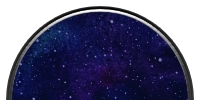
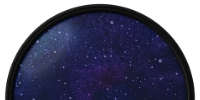
Improve sky crossfade timing and update sky textures
Rework computeSkyOpacities to use 25/50/25 fade model: daylight
and nighttime each split into 25% crossfade, 50% hold, 25% crossfade.
Center sun at noon by adjusting summer sunrise/sunset to 4.5/19.5.
Update sky background images with improved versions.

diff --git a/module/calendar/calendar-widget.js b/module/calendar/calendar-widget.js
@@ -63,20 +63,50 @@ function renderArc(position, isDay, moonPhase) {
  * The "from" layer stays at 1 while the "to" layer fades in on top.
  */
 function computeSkyOpacities(hour, sunrise, sunset) {
-	const noon = (sunrise + sunset) / 2
+	const dayLen = sunset - sunrise
+	const nightLen = 24 - dayLen
 
-	if (hour < sunrise) {
-		const t = hour / sunrise
-		return { night: 1, sunrise: t, midday: 0, evening: 0 }
-	} else if (hour < noon) {
-		const t = (hour - sunrise) / (noon - sunrise)
-		return { night: 0, sunrise: 1, midday: t, evening: 0 }
+	// Daylight split 25/50/25: sunrise→midday fade | midday hold | midday→evening fade
+	// Nighttime split 25/50/25: evening→night fade | night hold | night→sunrise fade
+	const nightEnd = sunrise - 0.25 * nightLen
+	const morningEnd = sunrise + 0.25 * dayLen
+	const afternoonStart = sunset - 0.25 * dayLen
+	const eveningEnd = sunset + 0.25 * nightLen
+
+	const o = { night: 0, sunrise: 0, midday: 0, evening: 0 }
+
+	if (hour < nightEnd) {
+		// Night hold
+		o.night = 1
+	} else if (hour < sunrise) {
+		// Night → Sunrise crossfade
+		const p = (hour - nightEnd) / (sunrise - nightEnd)
+		o.night = 1 - p
+		o.sunrise = p
+	} else if (hour < morningEnd) {
+		// Sunrise → Midday crossfade
+		const p = (hour - sunrise) / (morningEnd - sunrise)
+		o.sunrise = 1 - p
+		o.midday = p
+	} else if (hour < afternoonStart) {
+		// Midday hold
+		o.midday = 1
 	} else if (hour < sunset) {
-		const t = (hour - noon) / (sunset - noon)
-		return { night: 0, sunrise: 0, midday: 1, evening: t }
+		// Midday → Evening crossfade
+		const p = (hour - afternoonStart) / (sunset - afternoonStart)
+		o.midday = 1 - p
+		o.evening = p
+	} else if (hour < eveningEnd) {
+		// Evening → Night crossfade
+		const p = (hour - sunset) / (eveningEnd - sunset)
+		o.evening = 1 - p
+		o.night = p
+	} else {
+		// Night hold
+		o.night = 1
 	}
-	const t = (hour - sunset) / (24 - sunset)
-	return { night: 1, sunrise: 0, midday: 0, evening: 1 - t }
+
+	return o
 }
 
 /**

diff --git a/module/config.js b/module/config.js
@@ -93,7 +93,7 @@ DOLMENWOOD.moonSignTable = [
 DOLMENWOOD.seasons = {
 	winter: { months: ['braghold', 'grimvold', 'lymewald'], icon: 'fa-solid fa-snowflake', sunrise: 7.5, sunset: 16.5 },
 	spring: { months: ['haggryme', 'symswald', 'harchment'], icon: 'fa-solid fa-seedling', sunrise: 6.0, sunset: 18.0 },
-	summer: { months: ['iggwyld', 'chysting', 'lillipythe'], icon: 'fa-solid fa-sun', sunrise: 5.0, sunset: 20.0 },
+	summer: { months: ['iggwyld', 'chysting', 'lillipythe'], icon: 'fa-solid fa-sun', sunrise: 4.5, sunset: 19.5 },
 	autumn: { months: ['haelhold', 'reedwryme', 'obthryme'], icon: 'fa-solid fa-leaf', sunrise: 6.5, sunset: 17.5 }
 }
 DOLMENWOOD.DAYS_PER_YEAR = 352
